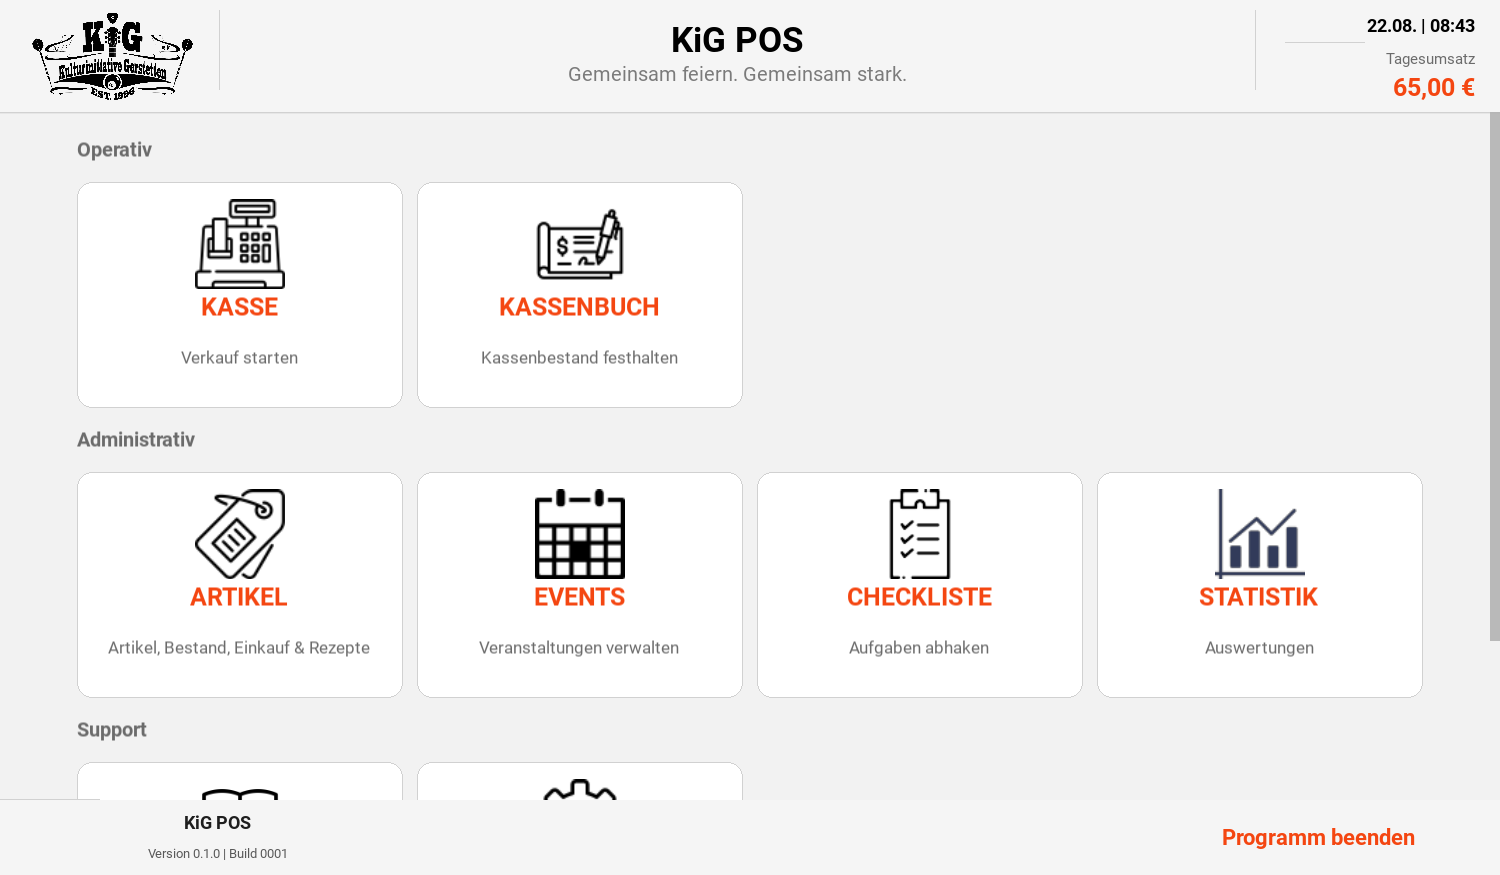
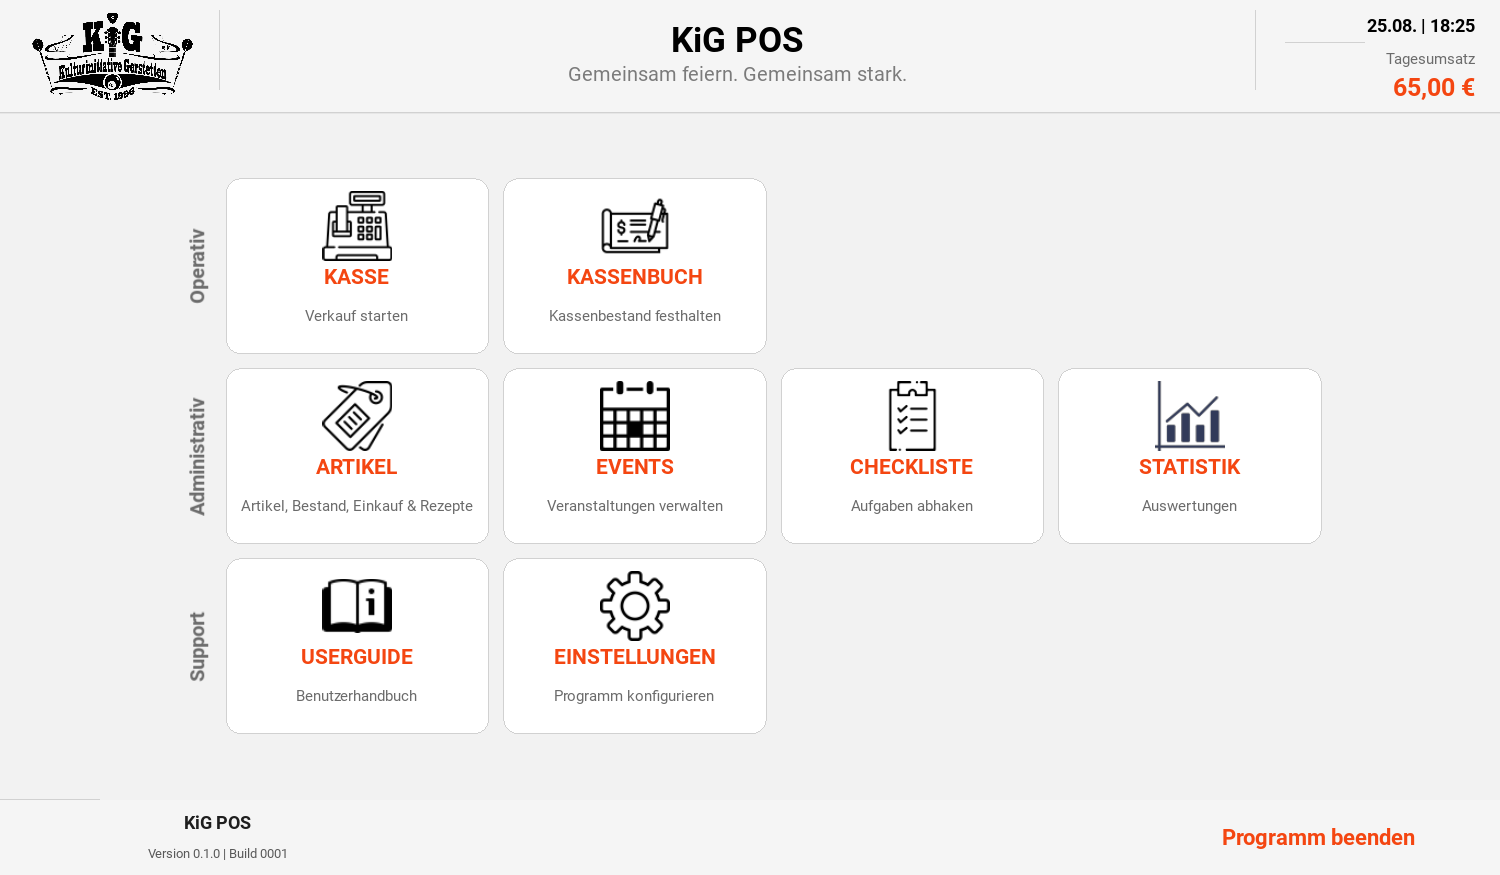
Startseite: Gruppentitel hochkant, Kacheln kleiner
Die Ueberschrift einer Gruppe stand ueber ihren Kacheln und kostete
damit eine ganze Zeile Hoehe - drei Gruppen, drei Zeilen. Jetzt steht
sie hochkant in einem 30 dp schmalen Streifen links daneben, gelesen
wie ein Buchruecken (widgets/common/senkrechte_beschriftung.py).

Die Kacheln sind von 260 x 180 auf 210 x 140 geschrumpft, Symbol und
Schrift entsprechend. Zusammen bringt das auf dem Boox im Hochformat
vier Kacheln je Reihe statt drei, und auf dem Rechner im Hochformat
passt die Startseite jetzt ohne Rollbalken.

diff --git a/screens/home_screen.py b/screens/home_screen.py
@@ -31,8 +31,8 @@ from kivy.uix.gridlayout import GridLayout
 from kivy.uix.scrollview import ScrollView
 
 
+from widgets.common.senkrechte_beschriftung import SenkrechteBeschriftung
 from widgets.home.home_tile import HomeTile
-from widgets.kig_label import KiGLabel
 
 import config
 import theme
@@ -42,13 +42,15 @@ class HomeScreen(Screen):
     Startbildschirm der Anwendung.
     """
 
-    # Höchstens so viele Kacheln nebeneinander. Vier, weil die
-    # größte Gruppe (Administrativ) genau vier hat und auf einem
-    # breiten Bildschirm in einer Reihe stehen soll.
-    MAX_COLUMNS = 4
+    # Höchstens so viele Kacheln nebeneinander. Fünf, damit auch die
+    # größte Gruppe (Administrativ) auf einem breiten Bildschirm in
+    # einer Reihe steht.
+    MAX_COLUMNS = 5
 
-    # Höhe einer Gruppenüberschrift
-    GROUP_TITLE_HEIGHT = 28
+    # Breite des Streifens links neben den Kacheln, in dem die
+    # Gruppenüberschrift hochkant steht. Waagerecht kostete sie eine
+    # ganze Zeile Höhe - und Höhe ist auf dem Tablet das knappere Gut.
+    GROUP_TITLE_WIDTH = 30
 
     # =====================================================
     # Konstruktor
@@ -337,21 +339,30 @@ class HomeScreen(Screen):
         )
 
     def _add_group(self, ueberschrift, kacheln):
-        """Eine Gruppe: Überschrift und darunter ihre Kacheln.
+        """Eine Gruppe: Überschrift links, daneben ihre Kacheln.
+
+        Die Überschrift steht hochkant in einem schmalen Streifen -
+        siehe GROUP_TITLE_WIDTH.
 
         Liefert (Überschrift, Raster, Kacheln) - der Bildschirm braucht
         beides später, um die Spaltenzahl anzupassen.
         """
 
-        titel = KiGLabel(text=ueberschrift)
-        titel.set_font_size(16)
-        titel.set_bold(True)
-        titel.set_alignment("left")
-        titel.set_color(theme.TEXT_SECONDARY)
-        titel.size_hint = (None, None)
-        titel.height = dp(self.GROUP_TITLE_HEIGHT)
+        zeile = BoxLayout(
+            orientation="horizontal",
+            spacing=dp(theme.SPACE_S),
+            size_hint=(None, None),
+        )
 
-        self.groups_layout.add_widget(titel)
+        titel = SenkrechteBeschriftung(
+            text=ueberschrift,
+            font_size=16,
+            color=theme.TEXT_SECONDARY,
+            size_hint=(None, None),
+            width=dp(self.GROUP_TITLE_WIDTH),
+        )
+
+        zeile.add_widget(titel)
 
         raster = GridLayout(
             cols=len(kacheln),
@@ -364,7 +375,20 @@ class HomeScreen(Screen):
         for kachel in kacheln:
             raster.add_widget(kachel)
 
-        self.groups_layout.add_widget(raster)
+        zeile.add_widget(raster)
+
+        # Die Zeile ist so hoch wie ihr Raster - und die Überschrift
+        # genauso hoch, damit der gedrehte Text auf ganzer Höhe mittig
+        # sitzt.
+        def anpassen(_instanz, groesse):
+            titel.height = groesse[1]
+            zeile.height = groesse[1]
+            zeile.width = titel.width + dp(theme.SPACE_S) + groesse[0]
+
+        raster.bind(size=anpassen)
+        anpassen(raster, raster.size)
+
+        self.groups_layout.add_widget(zeile)
 
         return titel, raster, tuple(kacheln)
 
@@ -384,7 +408,11 @@ class HomeScreen(Screen):
         abstand = dp(theme.TILE_SPACING)
         rand = dp(theme.SCREEN_PADDING)
 
-        verfuegbar = self.width - 2 * rand
+        # Der Streifen mit der hochkanten Überschrift geht vom Platz
+        # für die Kacheln ab.
+        streifen = dp(self.GROUP_TITLE_WIDTH) + dp(theme.SPACE_S)
+
+        verfuegbar = self.width - 2 * rand - streifen
 
         passend = int((verfuegbar + abstand) // (kachel_breite + abstand))
         passend = max(1, min(self.MAX_COLUMNS, passend))
@@ -402,11 +430,7 @@ class HomeScreen(Screen):
 
         breite = breiteste * kachel_breite + (breiteste - 1) * abstand
 
-        self.groups_layout.width = breite + 2 * rand
-
-        for titel, _raster, _kacheln in self.groups:
-            titel.width = breite
-            titel.text_size = (breite, titel.height)
+        self.groups_layout.width = breite + streifen + 2 * rand
 
     # =====================================================
     # Callbacks

diff --git a/widgets/common/senkrechte_beschriftung.py b/widgets/common/senkrechte_beschriftung.py
@@ -1,0 +1,92 @@
+"""
+=========================================================
+KiG POS
+=========================================================
+
+Datei:
+    widgets/common/senkrechte_beschriftung.py
+
+Beschreibung:
+    Eine um 90 Grad gedrehte Beschriftung.
+
+    Gedacht als Beschriftung neben einer Gruppe statt über
+    ihr: Waagerecht kostet eine Überschrift eine ganze
+    Zeile Höhe, senkrecht nur einen schmalen Streifen
+    Breite - und Höhe ist auf dem Tablet das knappere Gut.
+
+    Gelesen wird von unten nach oben, wie auf einem
+    Buchrücken.
+
+Version:
+    1.0.0
+=========================================================
+"""
+
+from kivy.graphics import PopMatrix, PushMatrix, Rotate
+from kivy.uix.label import Label
+from kivy.uix.widget import Widget
+
+import theme
+
+
+class SenkrechteBeschriftung(Widget):
+    """Beschriftung, die hochkant neben ihrem Inhalt steht."""
+
+    def __init__(
+            self,
+            text="",
+            font_size=16,
+            bold=True,
+            color=None,
+            **kwargs
+    ):
+
+        super().__init__(**kwargs)
+
+        self.label = Label(
+            text=text,
+            font_size=f"{font_size}sp",
+            bold=bold,
+            color=color if color is not None else theme.TEXT_SECONDARY,
+            halign="center",
+            valign="middle",
+        )
+
+        # Gedreht wird der gesamte Zeichenvorgang dieses Widgets: Das
+        # Label selbst bleibt ein gewöhnliches, waagerechtes Label -
+        # nur die Fläche, auf die es gezeichnet wird, ist gedreht.
+        with self.canvas.before:
+            PushMatrix()
+            self.drehung = Rotate(angle=90, origin=self.center)
+
+        with self.canvas.after:
+            PopMatrix()
+
+        self.add_widget(self.label)
+
+        self.bind(pos=self._nachfuehren, size=self._nachfuehren)
+
+        self._nachfuehren()
+
+    # =====================================================
+
+    def _nachfuehren(self, *_args):
+
+        self.drehung.origin = self.center
+
+        # Vertauscht, weil gedreht: Was für das Label Breite ist,
+        # erscheint auf dem Bildschirm als Höhe.
+        self.label.size = (self.height, self.width)
+        self.label.text_size = self.label.size
+        self.label.center = self.center
+
+    # =====================================================
+
+    def set_text(self, text):
+
+        self.label.text = text
+
+    @property
+    def text(self):
+
+        return self.label.text

diff --git a/widgets/home/home_tile.py b/widgets/home/home_tile.py
@@ -17,13 +17,19 @@ class HomeTile(KiGTile):
     subtitle = StringProperty("")
     icon = StringProperty("")
 
-    PADDING = theme.CARD_PADDING
+    # Kleiner als die allgemeine Kachel (KiGTile: 260 x 180): Auf der
+    # Startseite zählt, wie viele Bereiche auf einen Blick zu sehen
+    # sind - im Hochformat passt so eine Kachel mehr in die Reihe.
+    WIDTH = 210
+    HEIGHT = 140
+
+    PADDING = theme.SPACE_M
     SPACING = theme.LABEL_SPACING
 
-    ICON_SIZE = 72
+    ICON_SIZE = 56
 
-    TITLE_SIZE = 20
-    SUBTITLE_SIZE = 14
+    TITLE_SIZE = 17
+    SUBTITLE_SIZE = 12
 
     def __init__(self, **kwargs):
 
